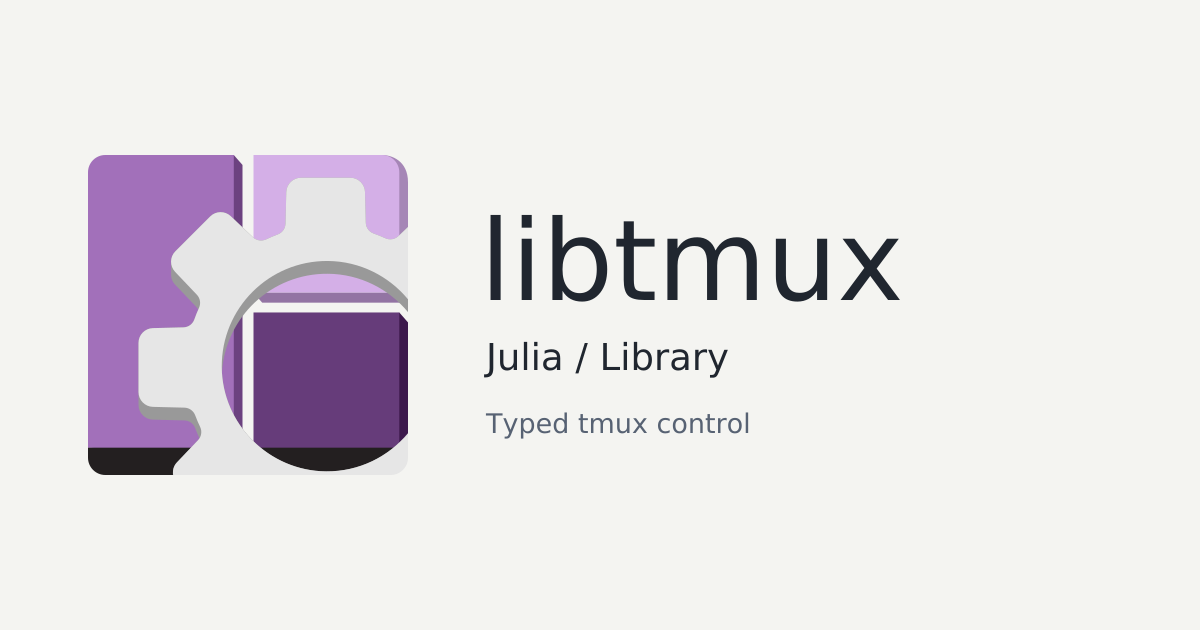
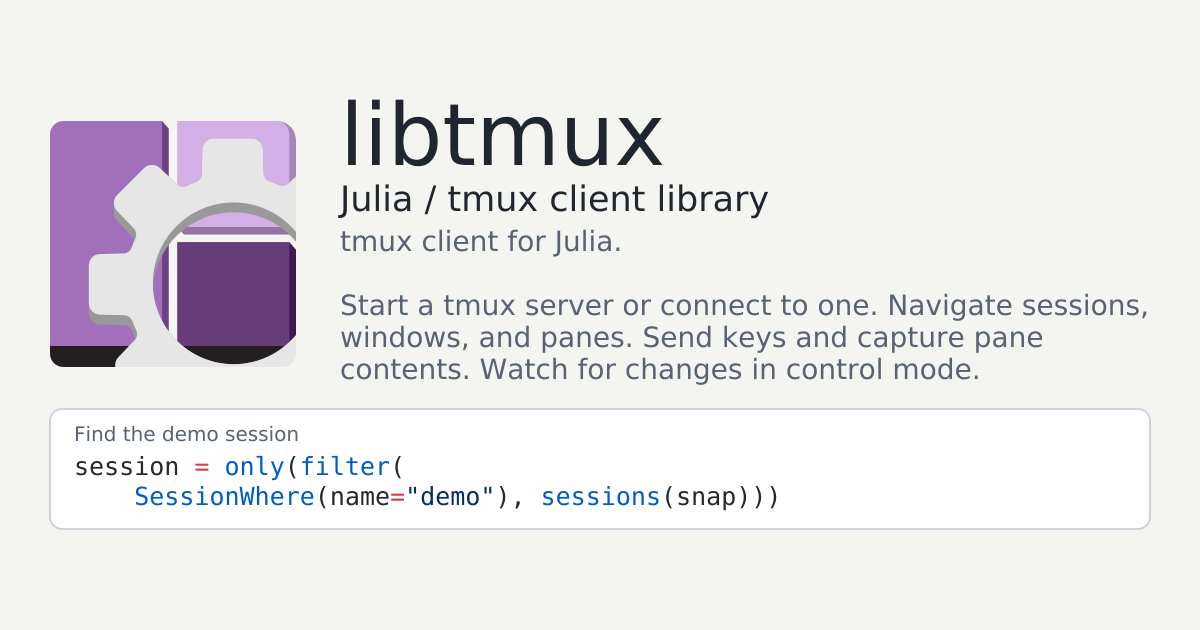
Docs(brand): Show a query on the sharing card
why: Sharing a library link should show how to query tmux in that
language.

what:
- Copy the reviewed sharing artwork and record its source revision

Changed region(s): [[0.0308, 0.1508, 0.9558, 0.8444]]

diff --git a/assets/README.md b/assets/README.md
@@ -12,3 +12,6 @@ symbol comes from the [upstream logo](https://github.com/modelcontextprotocol/mo
 Package-specific artwork sits beside its README where the package format
 supports it. `.github/social-preview.png` is the cog sharing card, ready to
 upload under the repository's **Settings → Social preview**.
+
+The sharing card comes from `assets/julia/library/opengraph-light.png`
+at kit revision `c9688d9db25e4c522ff1255d0f3badaf27d780dd`.
